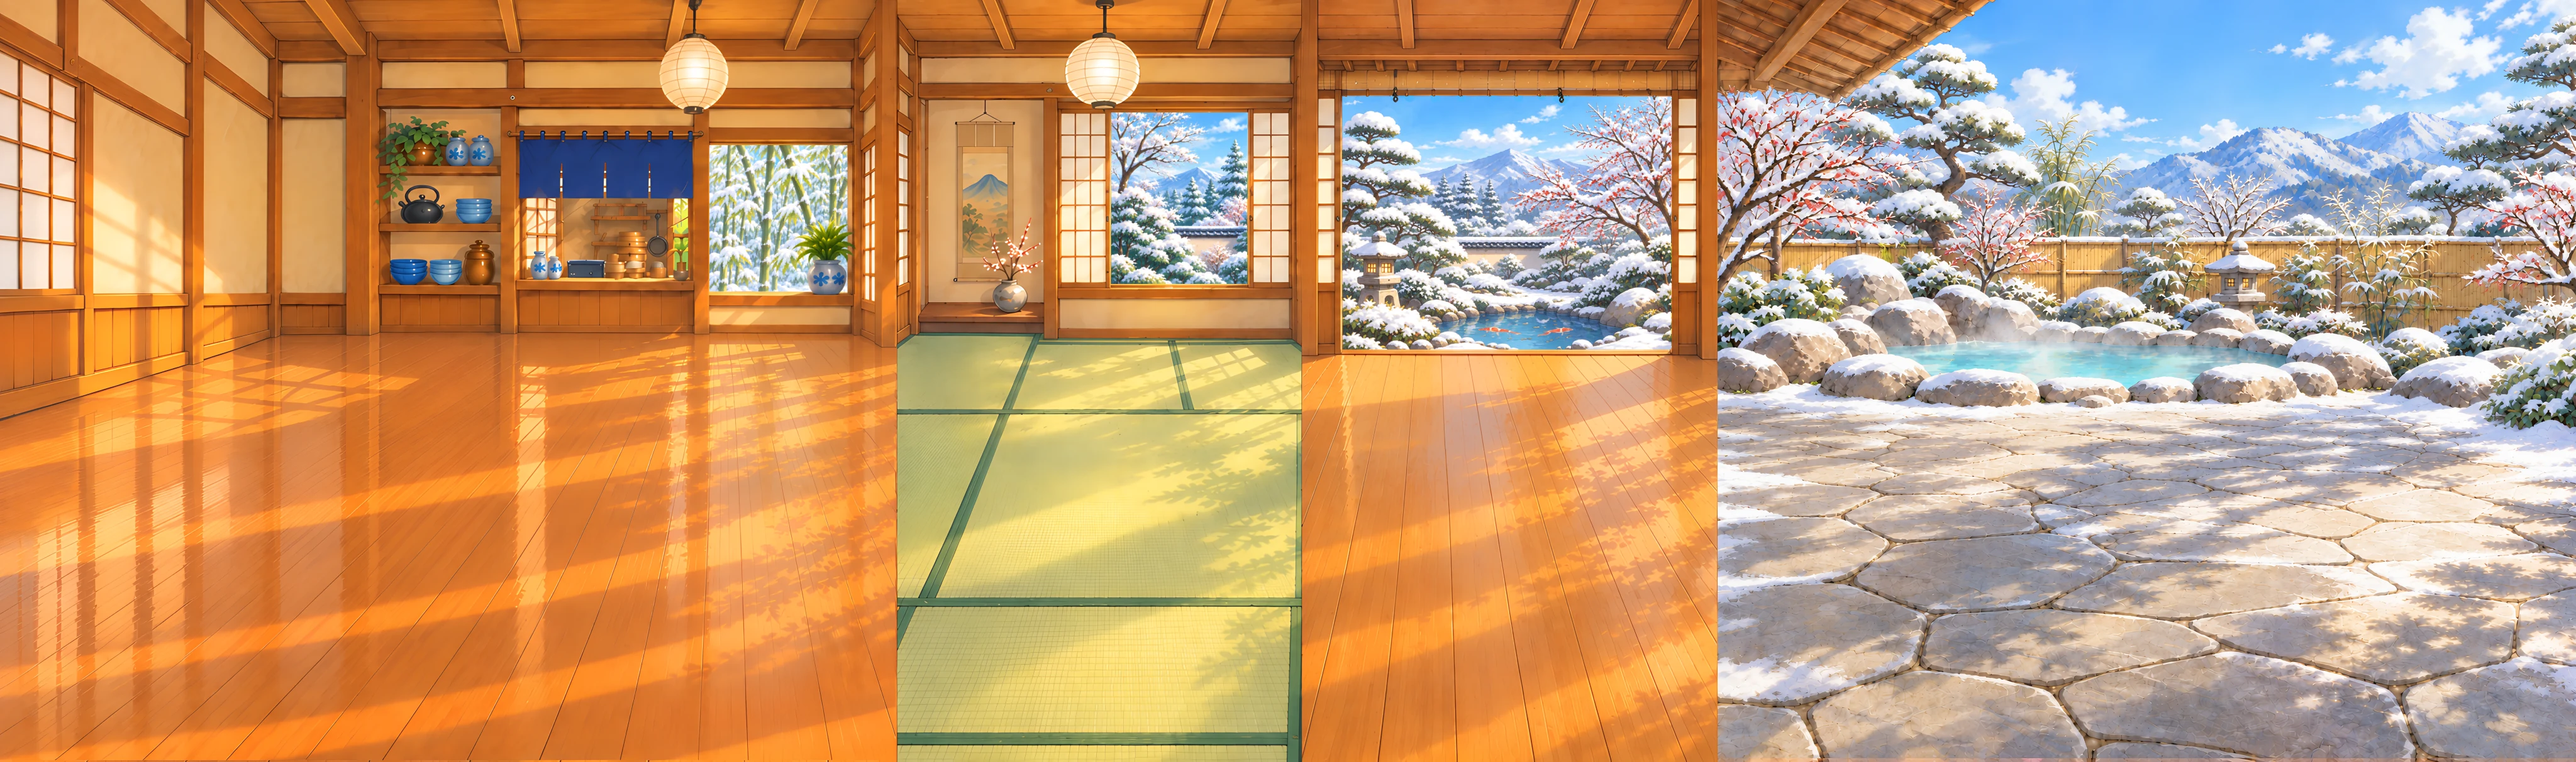
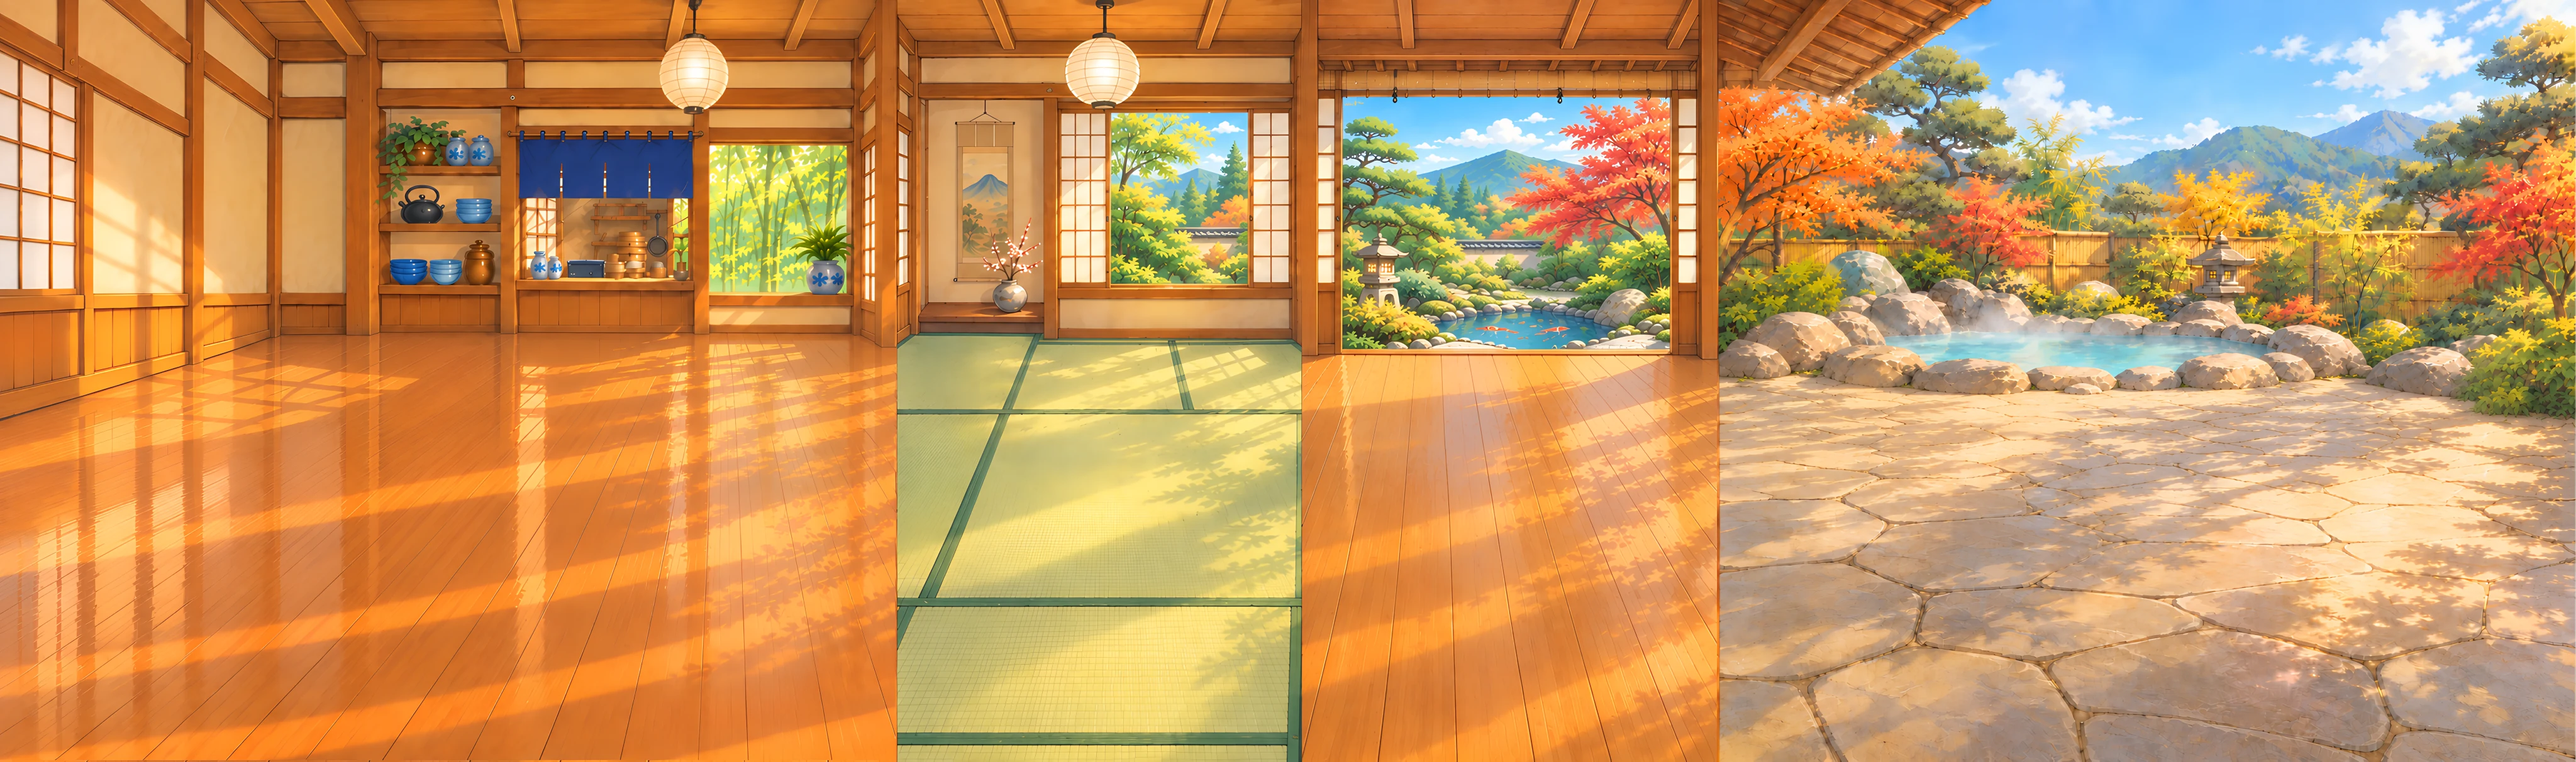
Add seasonal panorama cycling (4 months per scene)
PANO_SEASONS in index.html maps the real-world month to a panorama
file: spring (Mar-Jun), the existing maple/autumn art (Jul-Oct, a
placeholder slot until a true summer variant exists), and winter
(Nov-Feb). Picked once at page load via a --pano CSS variable the
shared .bg rule reads. ?season=spring|winter|autumn in the URL forces
one for testing.

tools/process_art.py now treats any raw/scene/ryokan-pano-<suffix>.png
as a panorama (full size, no resize), not just the exact 'ryokan-pano'
stem, so a new season is just a raw file drop plus a PANO_SEASONS
entry. scene/ryokan-pano.webp reverts to the default autumn art (it
had been left showing a winter test swap from manual testing).

Claude-Session: https://claude.ai/code/session_01Tdj66wXQKqFuepC4cD5qEY

diff --git a/index.html b/index.html
@@ -48,10 +48,11 @@
     container-type: size;   /* lets children offset by a share of the picture (cqw, cqh) */
   }
   .bg { position: absolute; inset: 0; background-color: #9DCC6E; background-repeat: no-repeat; background-size: auto 100%; }
-  /* The picture is six rooms wide: a margin, the four rooms, and a margin (scene/ryokan-pano.webp).
+  /* The picture is six rooms wide: a margin, the four rooms, and a margin (scene/ryokan-pano*.webp).
      Each section shows one slice of it, --slice from 0 to 5. The stage is one room wide and the picture is six
-     stages wide, so the slice's left edge is at --slice stages and background-position is --slice / 5. */
-  .bg { background-image: url("scene/ryokan-pano.webp"); background-size: auto 100%; background-position: calc(var(--slice) * 20%) 50%; }
+     stages wide, so the slice's left edge is at --slice stages and background-position is --slice / 5.
+     --pano (the file for the current season) is set once on :root by applyPano(), see PANO_SEASONS. */
+  .bg { background-image: var(--pano, url("scene/ryokan-pano.webp")); background-size: auto 100%; background-position: calc(var(--slice) * 20%) 50%; }
   .tint { position: absolute; inset: 0; pointer-events: none; transition: background 1.5s ease; }
   .seam { position: absolute; inset: 0; pointer-events: none; box-shadow: inset 0 0 0 1px rgba(0,0,0,.25); }
 
@@ -260,6 +261,15 @@
     { id: 'onsen',   ja: '温泉',   tr: 'onsen',         en: 'hot spring' }
   ];
   const START_ROOM = 'zashiki';
+  // The panorama varies with the real-world month, 4 months per scene (see HANDOFF-RYOKAN.md for
+  // why these groupings). months are 0-indexed (Date#getMonth()). 'default' is the maple/autumn
+  // art already used everywhere else (scene/ryokan-pano.webp) and also the only scene shipped so
+  // far without its own -<variant> file, so it needs no suffix.
+  const PANO_SEASONS = [
+    { months: [2, 3, 4, 5], file: 'scene/ryokan-pano-spring.webp' },   // Mar - Jun
+    { months: [6, 7, 8, 9], file: 'scene/ryokan-pano.webp' },          // Jul - Oct (default art)
+    { months: [10, 11, 0, 1], file: 'scene/ryokan-pano-winter.webp' }, // Nov - Feb
+  ];
   // Horizontal centre of the XL row: top row, bottom row.
   const XL_X = [32, 70];
   // How far XL items sit below the middle of their row, in % of the room.
@@ -847,12 +857,24 @@
     document.querySelectorAll('.tint').forEach((t) => { t.style.background = evening ? 'linear-gradient(rgba(242,150,110,.28), rgba(242,150,110,.10))' : 'transparent'; });
   }
 
+  // The panorama picks a seasonal file once per load (seasons don't change mid-session, unlike the
+  // day/night tint, so no need to recheck on a timer). ?season=spring|winter|autumn forces one for
+  // testing, bypassing the calendar; any other value (or a typo) falls through to the real month.
+  function applyPano() {
+    const forced = (location.search.match(/[?&]season=([a-z]+)/) || [])[1];
+    const entry = forced === 'autumn' ? PANO_SEASONS.find((s) => s.file === 'scene/ryokan-pano.webp')
+      : forced ? PANO_SEASONS.find((s) => s.file.includes('-' + forced))
+      : PANO_SEASONS.find((s) => s.months.includes(new Date().getMonth()));
+    const file = (entry || PANO_SEASONS[1]).file;
+    document.documentElement.style.setProperty('--pano', `url("${file}")`);
+  }
+
   function start() {
     if (!state.welcomed) {
       state.welcomed = true; save(); setFish(getFish() + WELCOME_FISH);
       toast(`Welcome to the Ryokan! Swipe sideways to visit the rooms.`);
     }
-    renderRooms(); renderChrome(); renderWallet(); tick(true);
+    applyPano(); renderRooms(); renderChrome(); renderWallet(); tick(true);
   }
   start();
   setInterval(() => { applyTimeOfDay(); tick(false); }, TICK_MS);

diff --git a/tools/process_art.py b/tools/process_art.py
@@ -39,7 +39,9 @@ SCENE_QUALITY = 88
 ROOM_SIZE = (1080, 1920)   # 9:16 portrait, one room of the ryokan (the rooms game in index.html)
 ROOM_QUALITY = 88
 ROOM_PREFIX = 'room-'      # raw/scene/room-<id>.png -> scene/room-<id>.webp
-PANO_NAME = 'ryokan-pano'  # raw/scene/ryokan-pano.png: all four rooms in one picture, 9:4, kept at its own size
+PANO_PREFIX = 'ryokan-pano'  # raw/scene/ryokan-pano[-<variant>].png -> scene/ryokan-pano[-<variant>].webp.
+                              # All four rooms in one picture, 9:4, kept at its own size. -<variant> is a
+                              # seasonal variant, e.g. ryokan-pano-spring.png (see PANO_SEASONS in index.html).
 PANO_QUALITY = 88
 
 W, H = 480, 400
@@ -440,10 +442,10 @@ def main():
         # Room pictures are 9:16 and get their own size below. The four-room panorama keeps its own size.
         if path.stem.startswith(ROOM_PREFIX):
             continue
-        if path.stem == PANO_NAME:
+        if path.stem == PANO_PREFIX or path.stem.startswith(PANO_PREFIX + '-'):
             log(f'panorama {path.name}')
             img = Image.open(path).convert('RGB')
-            out = SCENE_OUT / f'{PANO_NAME}.webp'
+            out = SCENE_OUT / f'{path.stem}.webp'
             img.save(out, 'WEBP', quality=PANO_QUALITY, method=6)
             log(f'  -> {out.relative_to(YARD)} {img.size[0]}x{img.size[1]}')
             continue

diff --git a/HANDOFF-RYOKAN.md b/HANDOFF-RYOKAN.md
@@ -22,6 +22,7 @@ I'm continuing work on "Neko Ryokan", a Neko Atsume-style cat game, a static sit
 - Food: a new layer, separate from the dining room's four sittable props (onigiri etc). Set out at FOOD_SPOT, one fixed position on the open dining-room floor (not one of its four item spots), marked by its own placemat (objects/food-mat.webp) drawn under the food art — the mat is always visible, placed or not, so it alone marks the spot instead of a dashed empty-mark like regular spots. It still needed z-index:95 like the desk, since a nearby regular spot's much bigger invisible button box would otherwise swallow its taps (same bug class as the desk fix) — keep this even though the mat now makes the spot visually obvious, the click-hitbox issue is unrelated to visibility. No cat ever poses on or visits food (it's just never put in state.spots, so the visitor-arrival loop can't see it). state.food is `{ id, expiresAt } | null`; it's eaten up (removed from state.owned, and state.food set to null) once Date.now() passes expiresAt, checked in simulate() the same way visitor departures are. Putting food away before it expires keeps it owned but forgets the remaining time — placing it again starts a fresh full duration. Only one food item can be owned-and-placed at a time since there's only one spot; buying/multiple ownership ahead of placing is fine, they just queue in the Bag. The shop gives food its own page (SHOP_SECTIONS in index.html), inserted right after the dining room's regular-items page, rather than mixing food into that page or using tabs — see sectionFor() for mapping a game room to its shop page index. All six planned items are in now (ochazuke, yakitori, tempura, chirashizushi/chirashi, unadon, kaiseki) — tamagoyaki is the only one still missing art. "Food determines whether cats come at all" was discussed but deliberately NOT implemented — right now food is cosmetic/decorative only, cats visit items exactly as before regardless of whether food is out.
 - Food art lesson: don't ask for steam/smoke in a food item's own prompt. It doesn't cut out cleanly against the flat grey backdrop (same reason the onsen prompts already said "no steam") and leaves a grey smudge baked into the item — happened twice (yakitori, ochazuke) before the shared food item block in ART-PROMPTS-ROOMS.md got an explicit "no steam, no smoke, no haze" rule. If a food item ever looks smudged, check whether its raw art has painted steam before assuming it's a cutout bug.
 - Kaiseki (and possibly other wide/angled items) needed CENTER_BBOX in tools/process_art.py: compose() normally centres on the bottom band of content (body_centre_x, intentional for cats — see the pipeline notes above), but a box drawn at a three-quarter angle has its near-bottom corner off to one side, which threw the bottom-band centring off in a way that never happens for a cat or a simple sitting object. CENTER_BBOX names items that should use plain bounding-box centring instead.
+- Seasonal panorama: PANO_SEASONS in index.html maps real-world month groups (4 months each) to a scene/ryokan-pano*.webp file — spring (Mar-Jun) and winter (Nov-Feb) are separate files, the original maple/autumn art (scene/ryokan-pano.webp, no suffix) covers the remaining Jul-Oct as a placeholder until a true summer variant exists. Picked once at page load (applyPano(), called from start() before renderRooms()) via a `--pano` CSS variable the shared `.bg` rule reads, not rechecked on a timer since the season can't change mid-session. `?season=spring|winter|autumn` in the URL forces one for testing, bypassing the calendar. tools/process_art.py was generalized to treat any raw/scene/ryokan-pano-<suffix>.png as a panorama (full size, no resize), not just the exact 'ryokan-pano' stem — so adding a new season later is just dropping raw/scene/ryokan-pano-<name>.png in and adding an entry to PANO_SEASONS. Caution: this also picks up any other ryokan-pano-* file left in raw/scene/ (e.g. the -v2 draft files we keep around locally for comparison) and generates a scene/*.webp for each one even though nothing references them — delete those stray outputs after a pipeline run, same as the existing room-*.webp quirk above.
 
 ## Cat art pipeline (tools/process_art.py)
 - Every cat pose is placed on a shared bottom baseline, then centred on the bottom 8% of its own content (BODY_BAND / body_centre_x), not on the middle of its bounding box. This was a real fix, not cosmetic: box-centring let a cat with a wider tail or paw spread (e.g. Pilpel) land visibly off from another cat (e.g. Tapuz) in the exact same spot, even though the offset in index.html was identical for both. If a new cat looks consistently offset from the others in the same pose, check this before reaching for a per-cat offset.
